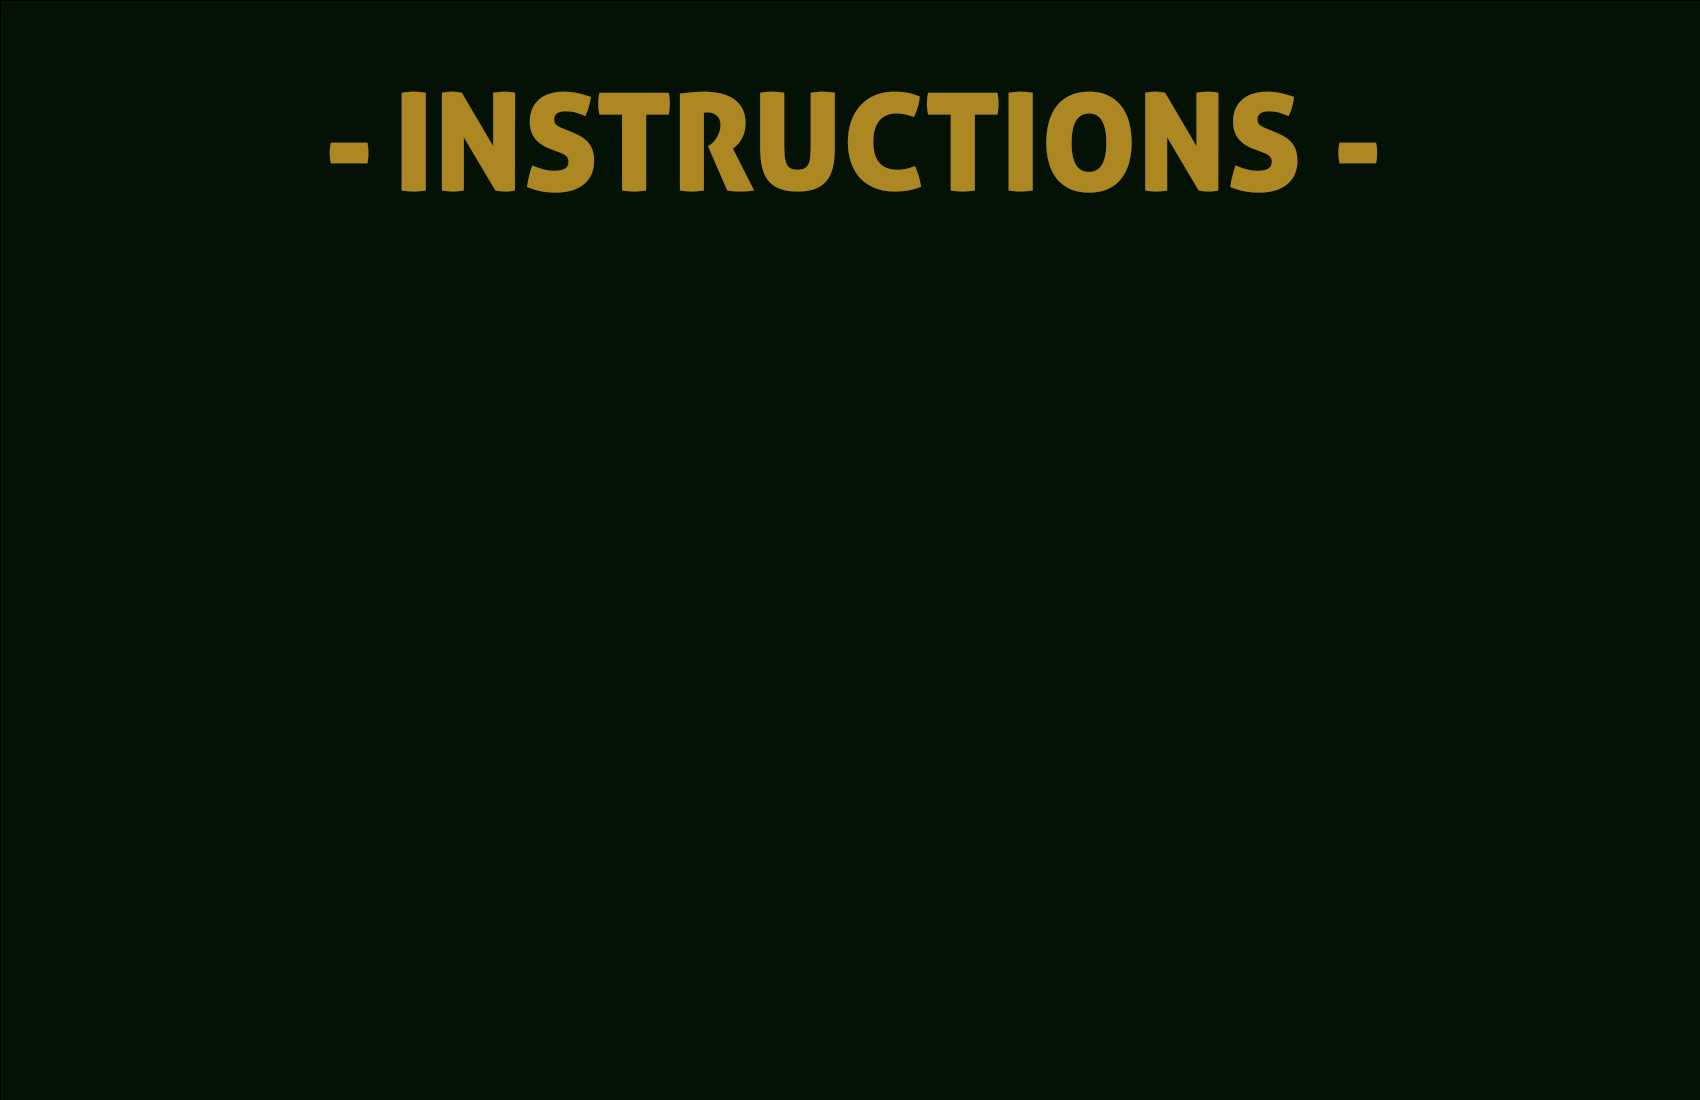
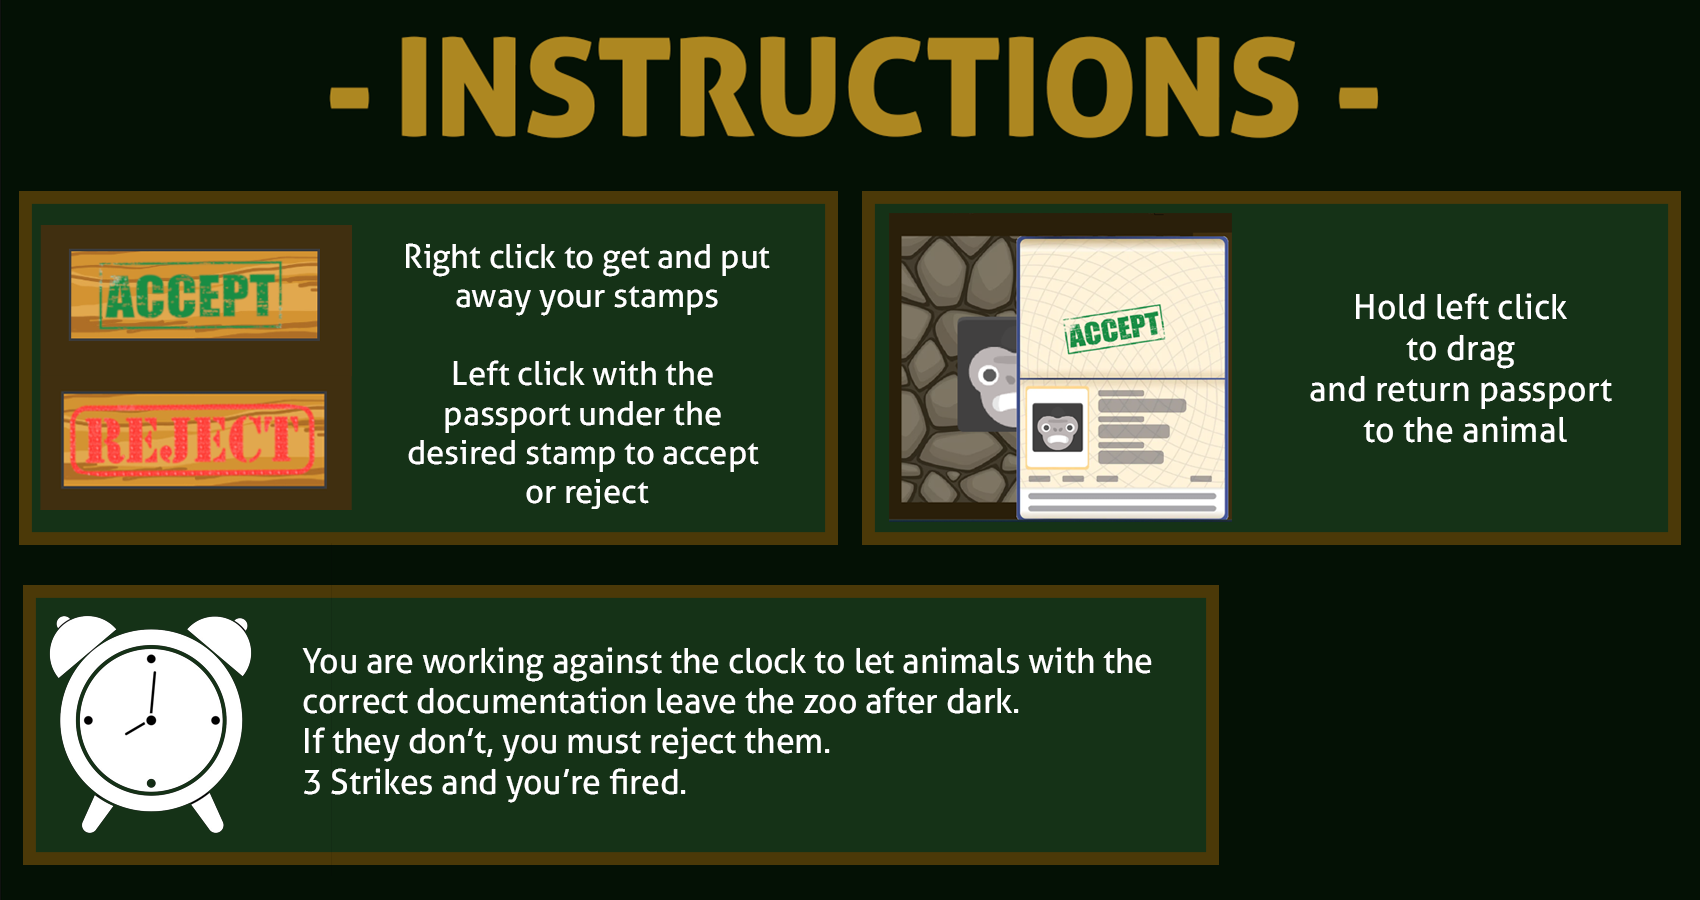
end message

diff --git a/src/Game.cpp b/src/Game.cpp
@@ -351,21 +351,21 @@ void Game::menuState()
 	play_option.setFont(menu_font);
 	play_option.setCharacterSize(80);
 	play_option.setFillColor(sf::Color(255,255,255,255));
-	play_option.setPosition(window.getSize().x / 2 - play_option.getGlobalBounds().width / 2, 650);
+	play_option.setPosition(window.getSize().x / 2 - play_option.getGlobalBounds().width / 2, 550);
 
 	// instruction button
 	instruction_option.setString("INSTRUCTIONS");
 	instruction_option.setFont(menu_font);
 	instruction_option.setCharacterSize(80);
 	instruction_option.setFillColor(sf::Color(255, 255, 255, 255));
-	instruction_option.setPosition(window.getSize().x / 2 - instruction_option.getGlobalBounds().width / 2, 760);
+	instruction_option.setPosition(window.getSize().x / 2 - instruction_option.getGlobalBounds().width / 2, 660);
 
 	// quit button
 	quit_option.setString("QUIT");
 	quit_option.setFont(menu_font);
 	quit_option.setCharacterSize(80);
 	quit_option.setFillColor(sf::Color(255, 255, 255, 255));
-	quit_option.setPosition(window.getSize().x / 2 - quit_option.getGlobalBounds().width / 2, 870);
+	quit_option.setPosition(window.getSize().x / 2 - quit_option.getGlobalBounds().width / 2, 770);
 
 }
 
@@ -435,7 +435,7 @@ void Game::endingState()
 	}
 	else if (winner == true)
 	{
-		end_message.setString("YAY!\nFinal Score: " + std::to_string(passes) + "\nFailures: " + std::to_string(failures) + "\nHigh Score: " + std::to_string(highscore));
+		end_message.setString("                                    Good job!\nYou have correctly sorted through " + std::to_string(passes) + " animals\nwith " + std::to_string(failures) + " failures.\n\n                                High Score: " + std::to_string(highscore));
 		end_message.setFont(menu_font);
 		end_message.setColor(sf::Color(255, 255, 255, 255));
 		end_message.setCharacterSize(50);
